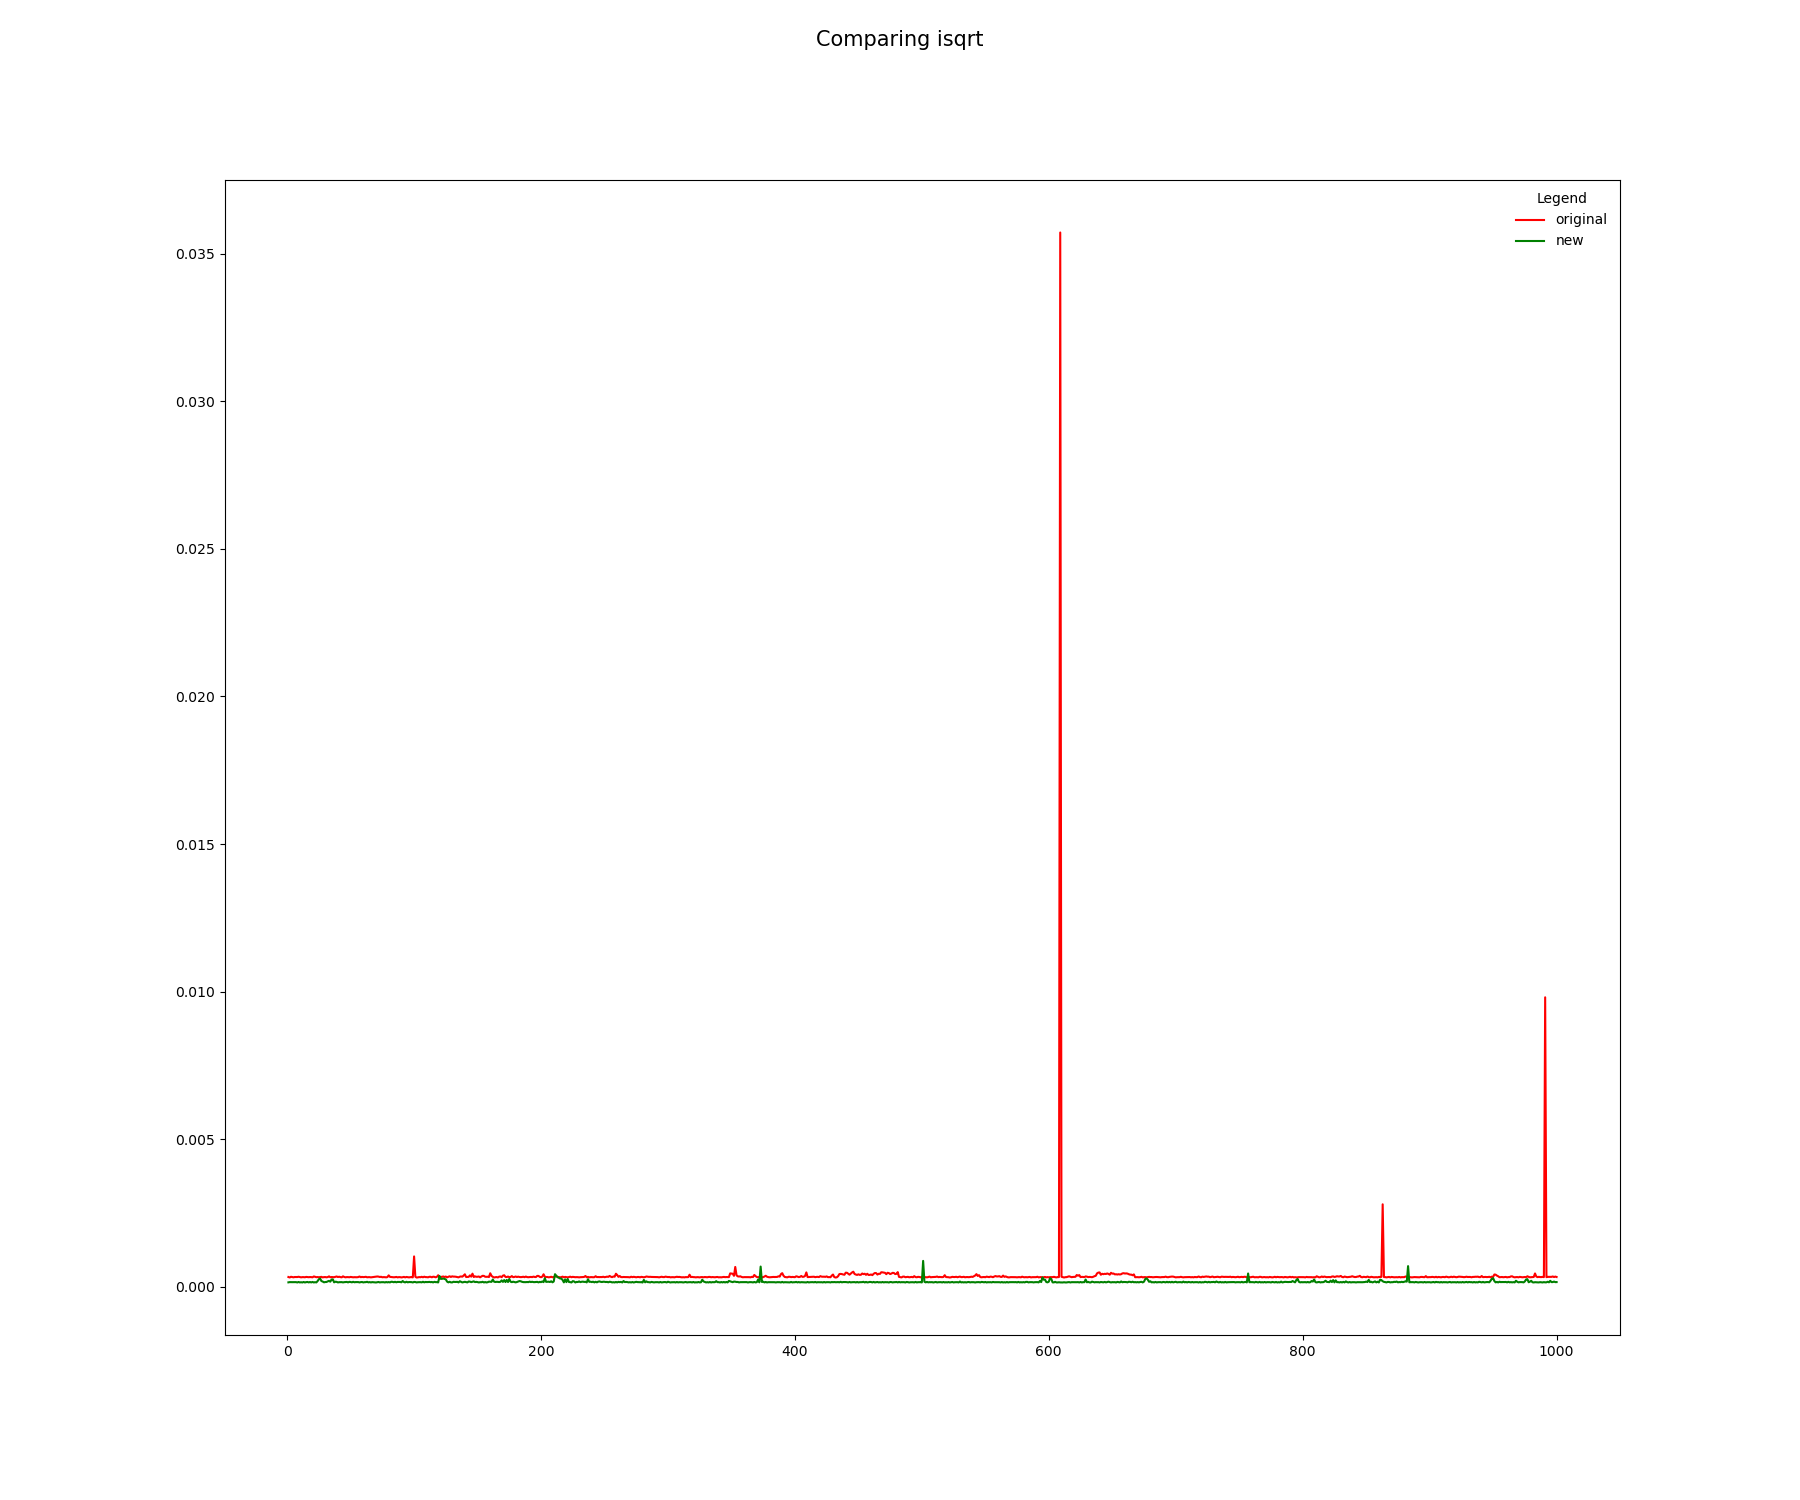
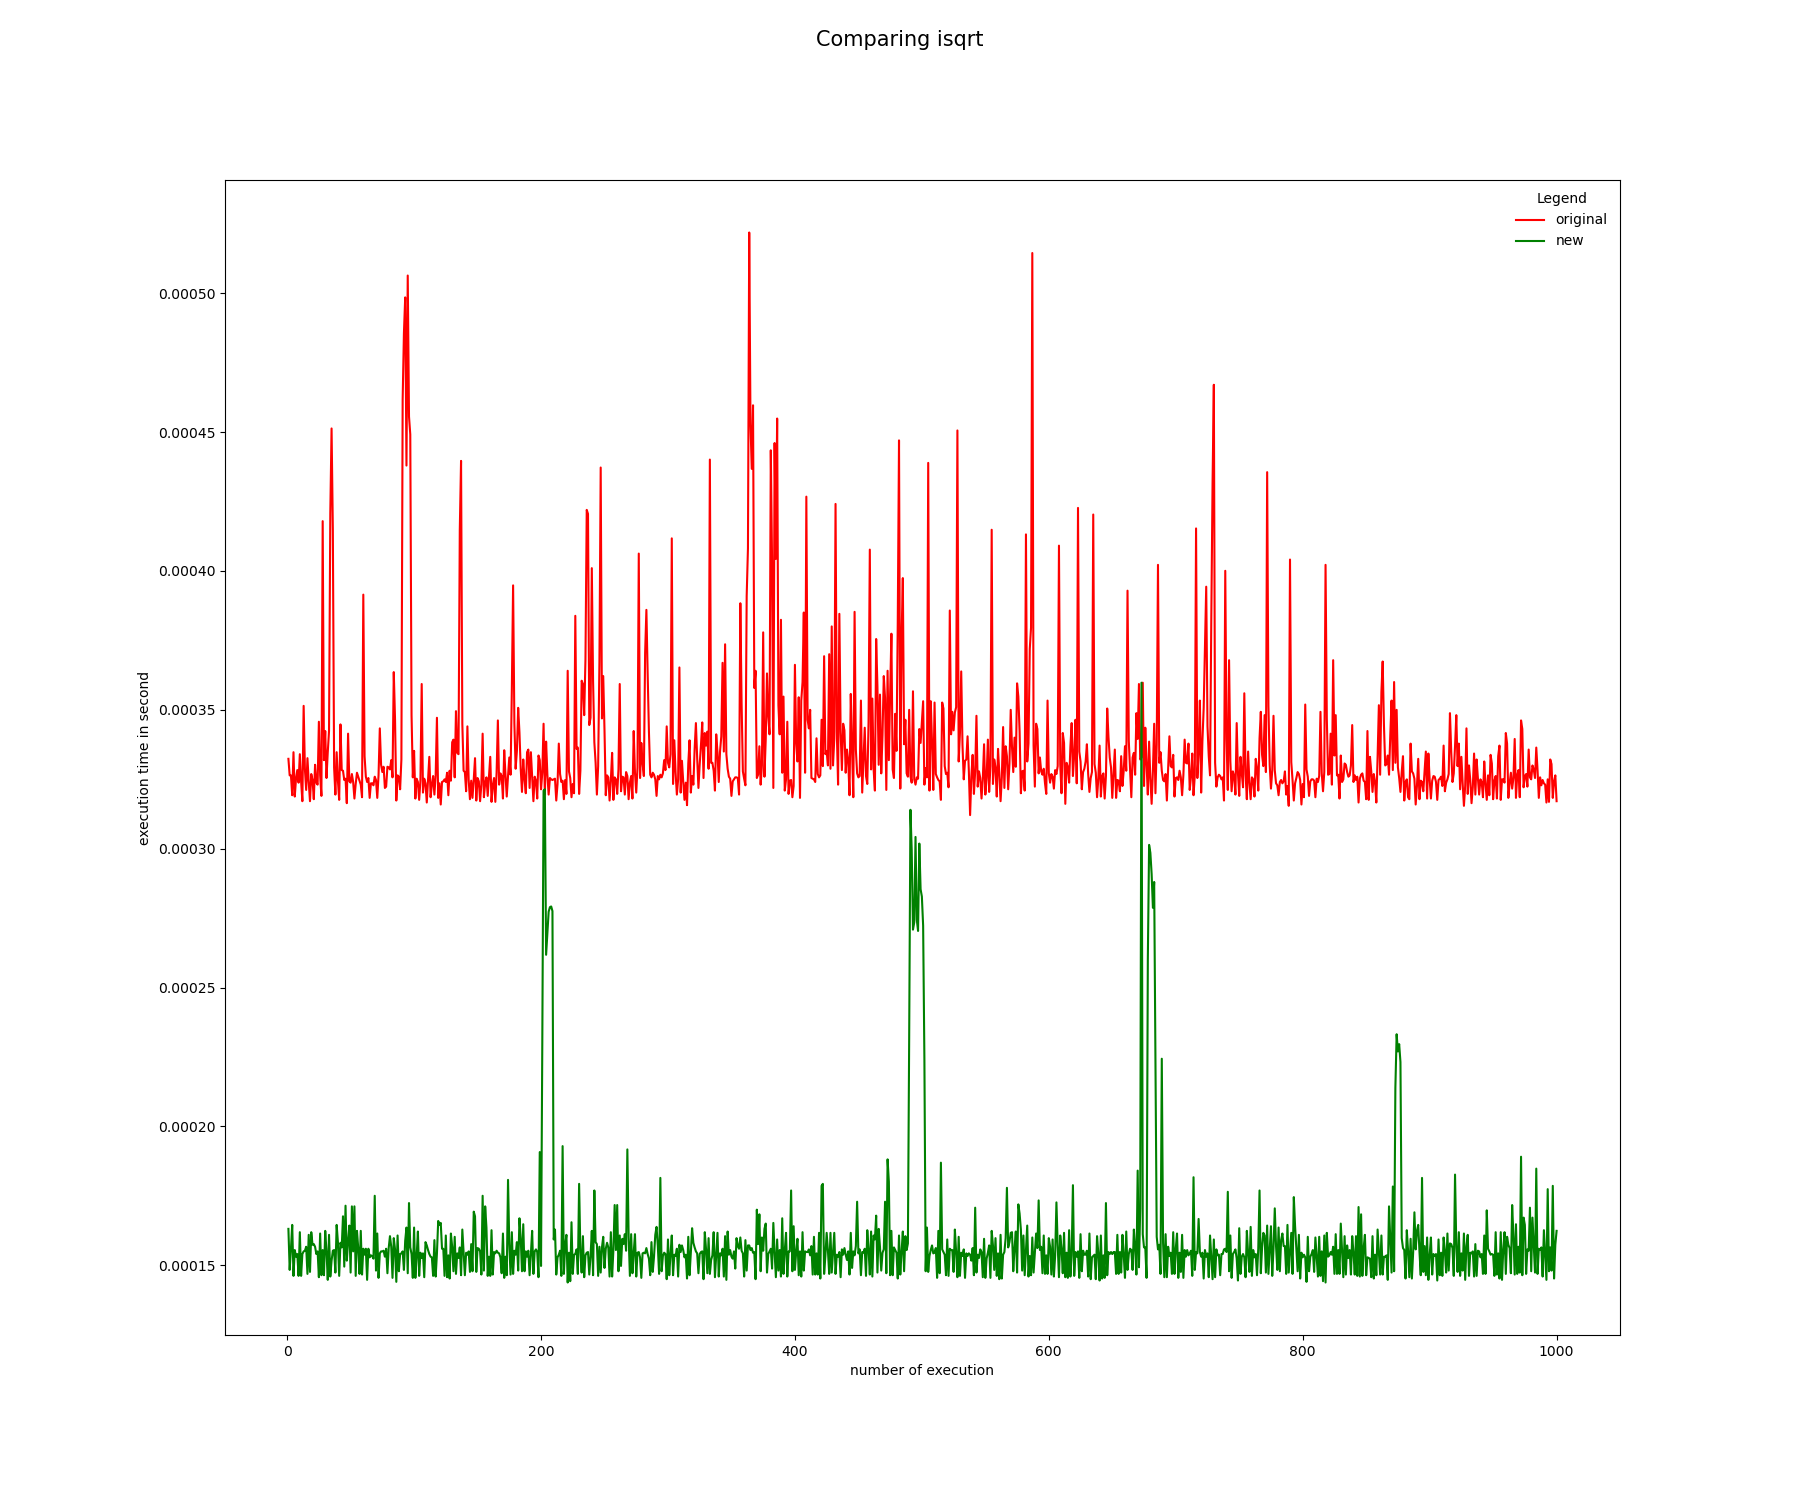
new improvement with the gcd() function

diff --git a/test.py b/test.py
@@ -2,24 +2,26 @@ from benchmark.generate import get_time
 from benchmark.conversion import get_time_converting
 from benchmark.isqrt import get_time_isqrt
 from benchmark.fast_expo import get_time_fast_expo
+from benchmark.gcd import get_time_gcd
 
 from benchmark.graph import *
 
 
 def simulation():
-    """
-    time = get_time(50, 2048)
-    make_simple_plot(time, "generate() with new binary algorithm", "generate()", "red")
+    #time = get_time(50, 2048)
+    #make_simple_plot(time, "generate() with new binary algorithm", "generate()", "red")
 
     time1, time2 = get_time_converting(1000)
-    make_dual_plot((time1, time2), "Comparing conversion integer to binary", ("original", "new"), ("red", "green"))
+    make_n_plot("plot", (time1, time2), "Comparing conversion integer to binary", ("original", "new"), ("red", "green"))
 
     time1, time2 = get_time_isqrt(1000)
-    make_dual_plot((time1, time2), "Comparing isqrt", ("original", "new"), ("red", "green"))
-    """
+    make_n_plot("plot", (time1, time2), "Comparing isqrt", ("original", "new"), ("red", "green"))
 
-    time1, time2, time3 = get_time_fast_expo(50)
-    make_n_plot((time1, time2, time3), "Comparing several fast modular exponentiation function", ("old", "new", "python"), ("red", "green", "purple"))
+    time1, time2, time3 = get_time_fast_expo(100)
+    make_n_plot("point", (time1, time2, time3), "Comparing several fast modular exponentiation function", ("old", "new", "python"), ("red", "green", "purple"))
+
+    time1, time2, time3 = get_time_gcd(100)
+    make_n_plot("point", (time1, time2, time3), "Comparing several gcd function", ("old", "new", "python"), ("red", "green", "purple"))
     
 
 if __name__ == "__main__":

diff --git a/benchmark/gcd.py b/benchmark/gcd.py
@@ -1,0 +1,55 @@
+import time, math
+
+
+a = pow(2, 1023)
+b = pow(2, 1024)
+
+
+def get_time_gcd(n):
+    result_old = []
+    result_new = []
+    python = []
+
+    for _ in range(n):
+        start_time = time.time()
+        gcd_old(a, b)
+        result_old.append(time.time() - start_time)
+
+    for _ in range(n):
+        start_time = time.time()
+        gcd_binary(a, b)
+        result_new.append(time.time() - start_time)
+
+    for _ in range(n):
+        start_time = time.time()
+        math.gcd(a, b)
+        python.append(time.time() - start_time)
+    return result_old, result_new, python
+
+
+def gcd_old(x, y):
+    r = [x, y]
+    i = 1
+    while r[i] >= 0:
+        i += 1
+        r.append(r[i-2] % r[i-1])
+
+        if r[i] == 0:
+            return r[i-1]
+
+def gcd_binary(x, y):
+    if x == 0:
+        return y
+    if y == 0:
+        return x
+
+    x_rightmost = x & -x
+    y_rightmost = y & -y
+
+    while x_rightmost != y_rightmost:
+        if x_rightmost > y_rightmost:
+            x_rightmost >>= 1
+        else:
+            y_rightmost >>= 1
+
+    return x_rightmost

diff --git a/benchmark/graph.py b/benchmark/graph.py
@@ -18,7 +18,7 @@ def make_simple_plot(array, title, label, color):
 
 
 
-def make_n_plot(arrays, title, labels, colors):
+def make_n_plot(type, arrays, title, labels, colors):
     size_data = []
     for data in arrays:
         size_data.append(len(data))
@@ -27,7 +27,10 @@ def make_n_plot(arrays, title, labels, colors):
     fig.suptitle(title, fontsize=15)
 
     for i in range(len(arrays)):
-        plt.plot(np.linspace(1, size_data[i], size_data[i]), arrays[i], color=colors[i], label=labels[i])
+        if type == "plot":
+            plt.plot(np.linspace(1, size_data[i], size_data[i]), arrays[i], color=colors[i], label=labels[i])
+        elif type == "point":
+            plt.scatter(np.linspace(1, size_data[i], size_data[i]), arrays[i], color=colors[i], label=labels[i])
 
     plt.xlabel('number of execution')
     plt.ylabel('execution time in second')

diff --git a/pubcrypt/number/util.py b/pubcrypt/number/util.py
@@ -30,14 +30,21 @@ def invmod(z, a):
 
 
 def gcd(x, y):
-    r = [x, y]
-    i = 1
-    while r[i] >= 0:
-        i += 1
-        r.append(r[i-2] % r[i-1])
+    if x == 0:
+        return y
+    if y == 0:
+        return x
 
-        if r[i] == 0:
-            return r[i-1]
+    x_rightmost = x & -x
+    y_rightmost = y & -y
+
+    while x_rightmost != y_rightmost:
+        if x_rightmost > y_rightmost:
+            x_rightmost >>= 1
+        else:
+            y_rightmost >>= 1
+
+    return x_rightmost
 
 
 def lcm(x, y):
